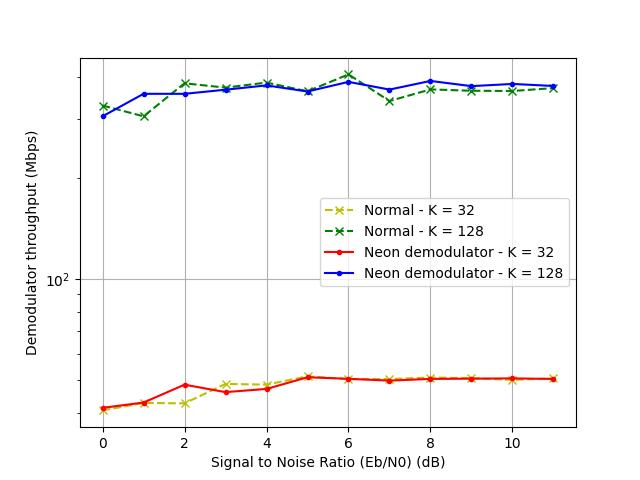
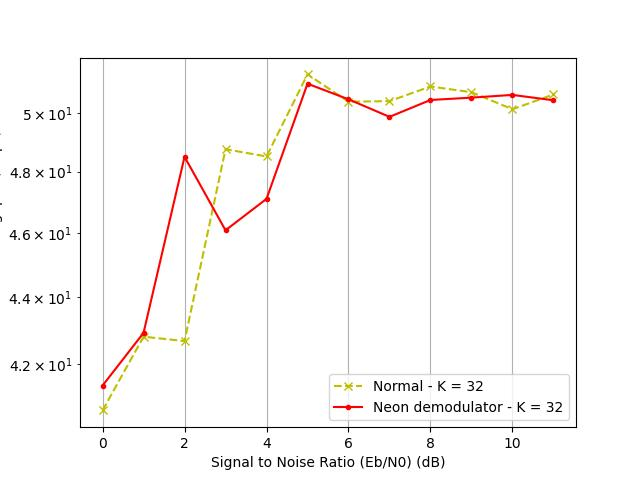
uhhh ok i guess

diff --git a/Modulateur/graphs.py b/Modulateur/graphs.py
@@ -12,13 +12,13 @@ types = ["hard", "soft_32", "soft_64", "soft_96", "soft_128"]
 
 files = [ 
          ("normal/sim_", "Normal - K = 32", "yx--"),
-         ("normal/big_k/sim_", "Normal - K = 128", "gx--"),
-         ("neon_demod/sim_", "Neon demodulator - K = 32", "r.-"),
-         ("neon_demod/big_k/sim_", "Neon demodulator - K = 128", "b.-"), 
+         #("normal/big_k/sim_", "Normal - K = 128", "gx--"),
+         ("neon_mod/sim_", "Neon modulator - K = 32", "r.-"),
+         #("neon_demod/big_k/sim_", "Neon demodulator - K = 128", "b.-"), 
 ]
 
 for t in types:
-    output = "FINAL GRAPHS/neon_demod/block throughput/"+t
+    output = "FINAL GRAPHS/neon_modul/block throughput/"+t
     xlabel = "Signal to Noise Ratio (Eb/N0) (dB)"  
     ylabel = "Demodulator throughput (Mbps)"
     x = "Eb/No"

diff --git a/Modulateur/rapport_projet.md b/Modulateur/rapport_projet.md
@@ -2,6 +2,11 @@
 DEBRIE Maëla
 WILCOX Grace
 
+# Preliminary note
+We tested our code with both K=32 and K=128. On the graph, we were able to see that while the BER remained unchanged, the FER was affected by this modification, for our reference point as well as our optimized code. This is because one bit error only leads to one frame error, no matter the number of information bits. This means that for K=32, we have 32 chances of getting a bit error, while for K=128, we have 4 times more chances of having a bit error, leading to an increased frame error rate.
+
+We also noted that our throughputs, global or per block, could greatly vary from one SNR to the next, leading to unclear results. While most of the time, we do have better throughput in our optimized versions, we decided it was more obvious to plot graphs based on the average time for the block / simulation chain instead of the throughput. Throughput data can still be found in the .csv files if so desired.
+
 # Axe 1 - Speedup the whole chain
 ## Using threads
 We will use mutex (locks) to avoid concurrent access on the frame error and bit error variables. Because we will run multiple threads at once, we might stop above `f_max` frames simulated.
@@ -31,7 +36,7 @@ To test our random generators, we displayed the generated frames and could see t
 
 **Performances**
 We first tested if our decoding performances were still correct. As mentionned, because we changed the structure of the code, we used an earlier simulation as a comparison point. We could see that both without and with threads had the same decoding performances as before, meaning our code is still correct.
-![correct](thread.jpg)
+![correct](<FINAL GRAPHS/threads/error/hard.jpg>)
 
 We then compared the time spent for simulating one frame, as well as the throughput of one frame. Both went up for the thread version, although it is not 6 times faster, presumably because of the locks slowdown.
 ![speed](thread_speed.jpg)
@@ -75,7 +80,7 @@ Simulated using:
 - standard monitor
 
 *Error rates* 
-![alt text](mod_perf.jpg)
+![alt text](<FINAL GRAPHS/neon_modul/error/hard.jpg>)
 There is no difference in the error rates when using the neon and scalar modulator, as desired.
 
 *Block timing*
@@ -101,7 +106,7 @@ Simulated using:
 - standard monitor
 
 *Errors rates*
-![alt text](demod_perf.jpg)
+![alt text](<FINAL GRAPHS/neon_demod/error/hard.jpg>)
 There is no difference in the error rates when using the neon and scalar modulator, as desired.
 
 *Block timing*
@@ -134,12 +139,7 @@ After that, we could see that both our monitors produced the same results:
 
 **Performances**
 We can see that this new monitor does not affect the performances, meaning it decodes well:
-![monitor_perfs](monitor_upgrade_perfs.jpg)
+![monitor_perfs](<FINAL GRAPHS/neon_monitor/error/hard.jpg>)
 
 The time taken for the monitor is (most of the time) also reduced, as we can see on this graph:
 ![monitor_perfs](monitor_upgrade.jpg)
-
-# Overall performances
-In this paragraph, we will compare the performances of all our upgrades to the original version of the code. We will test it for K = 32 (as we did before) as well as for K = 128 to see if the output is different
-
-- We can see that K=128 has a higher FER, because more bits = more chances of having an error
